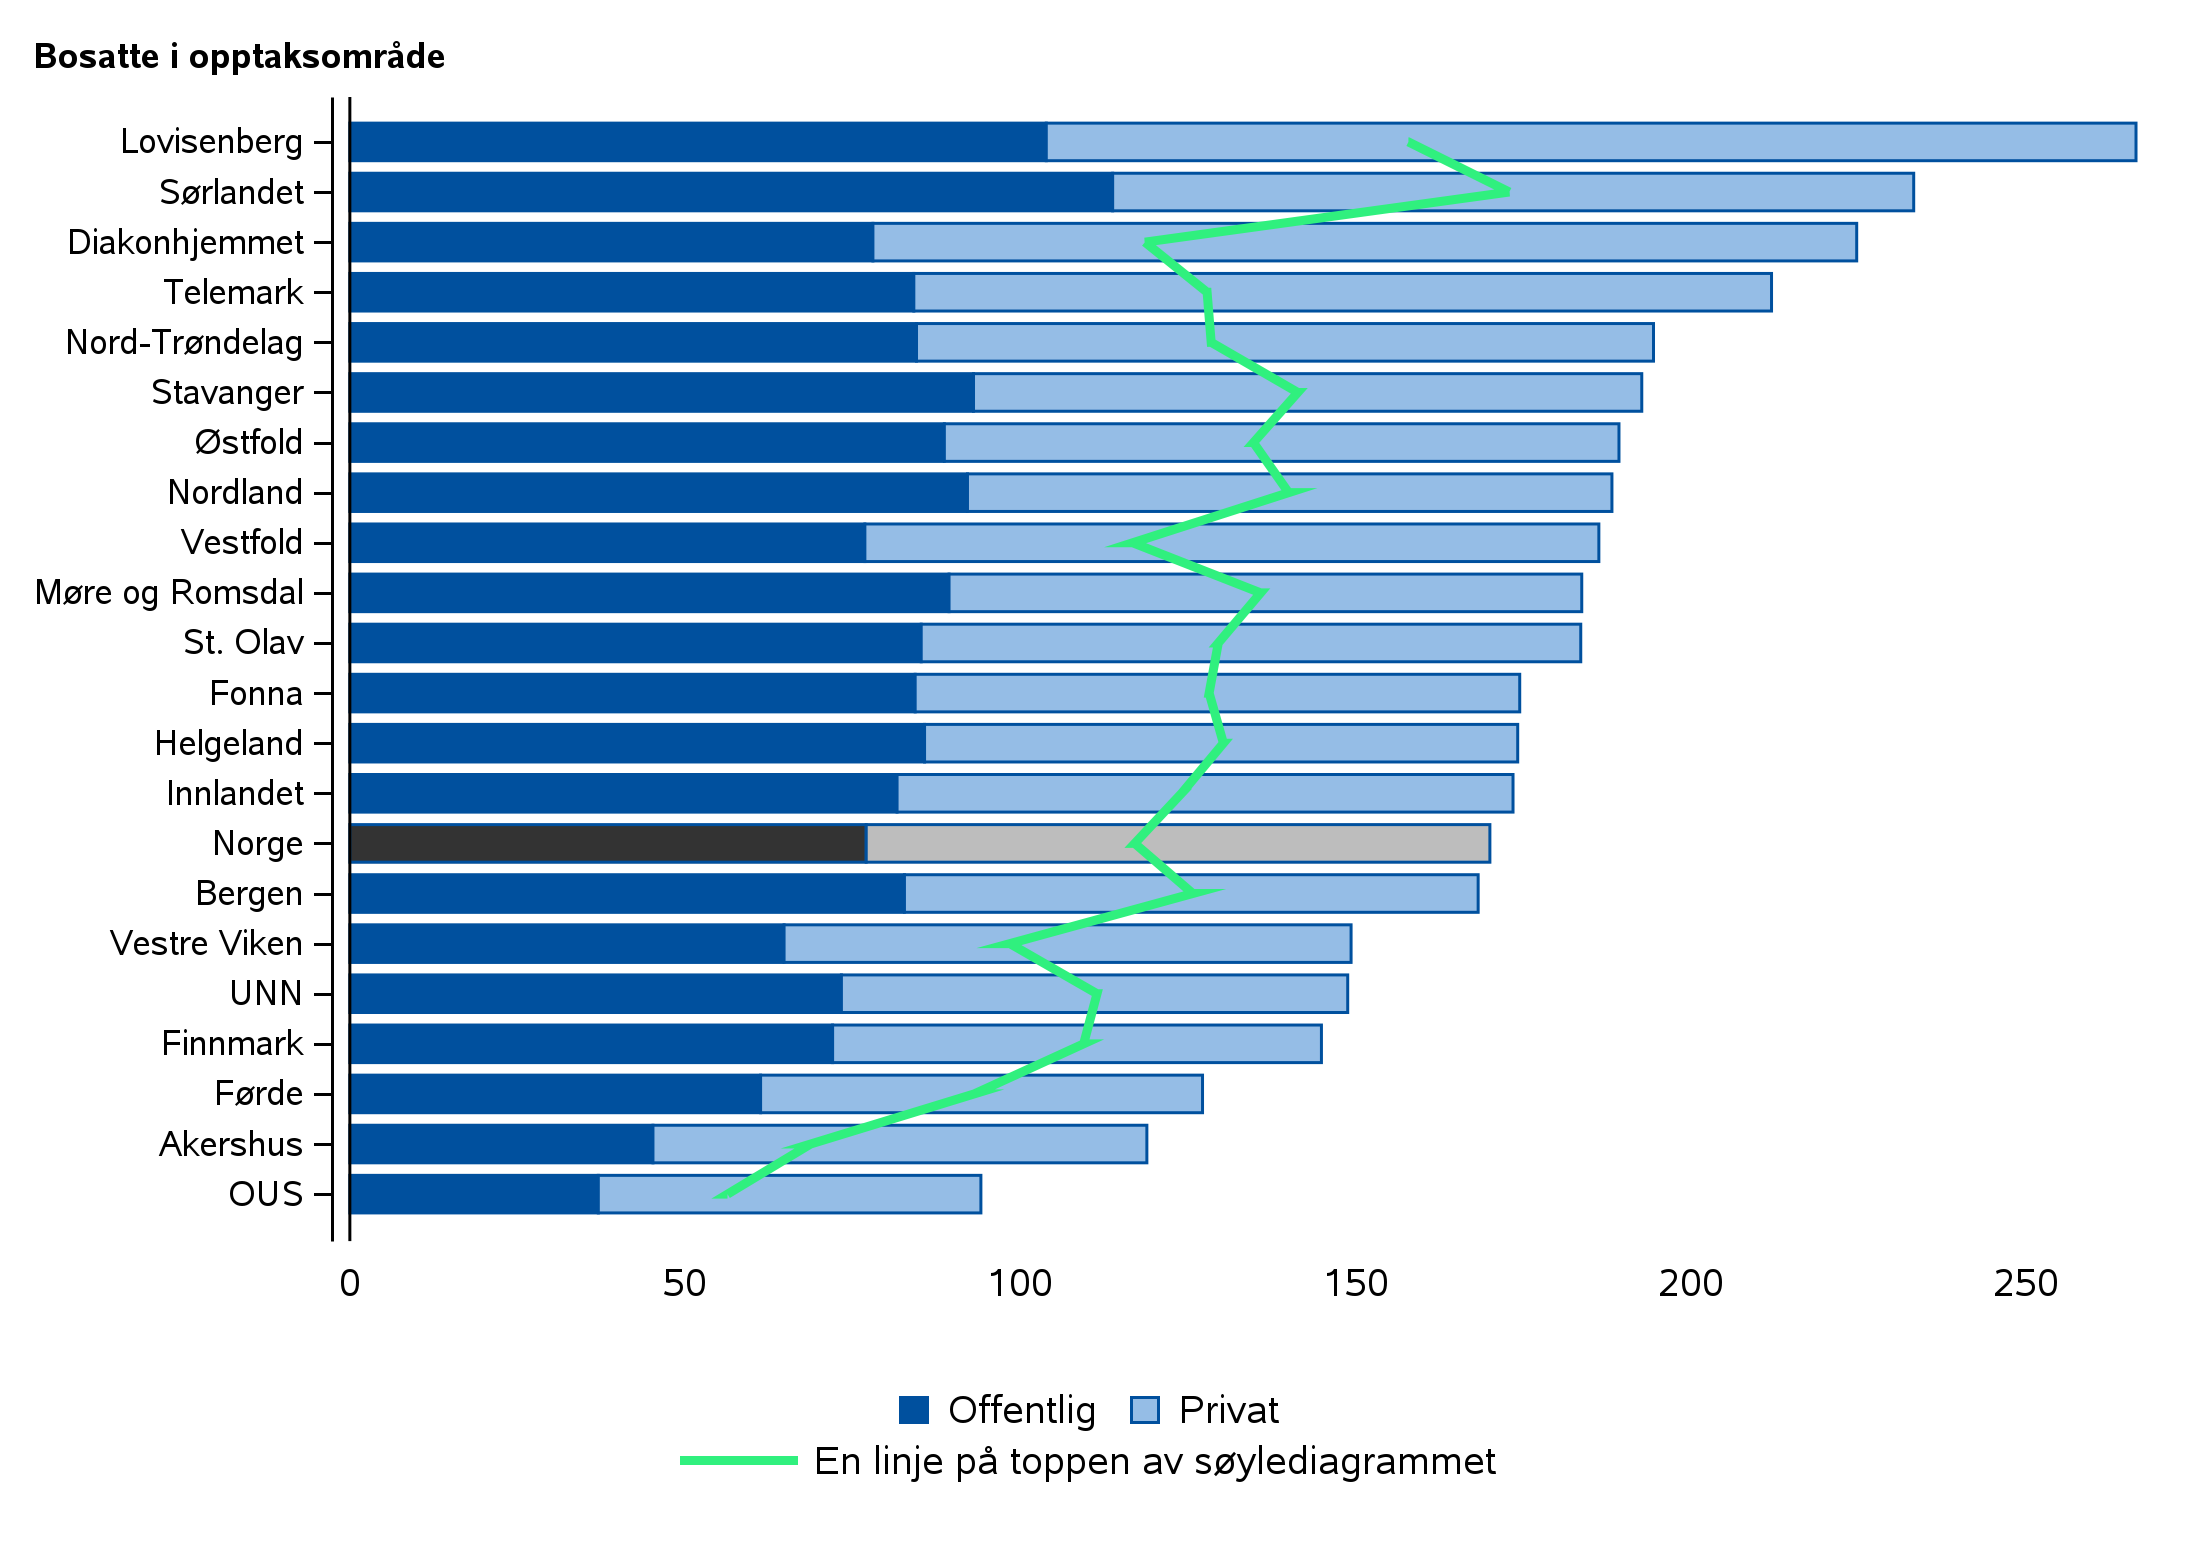
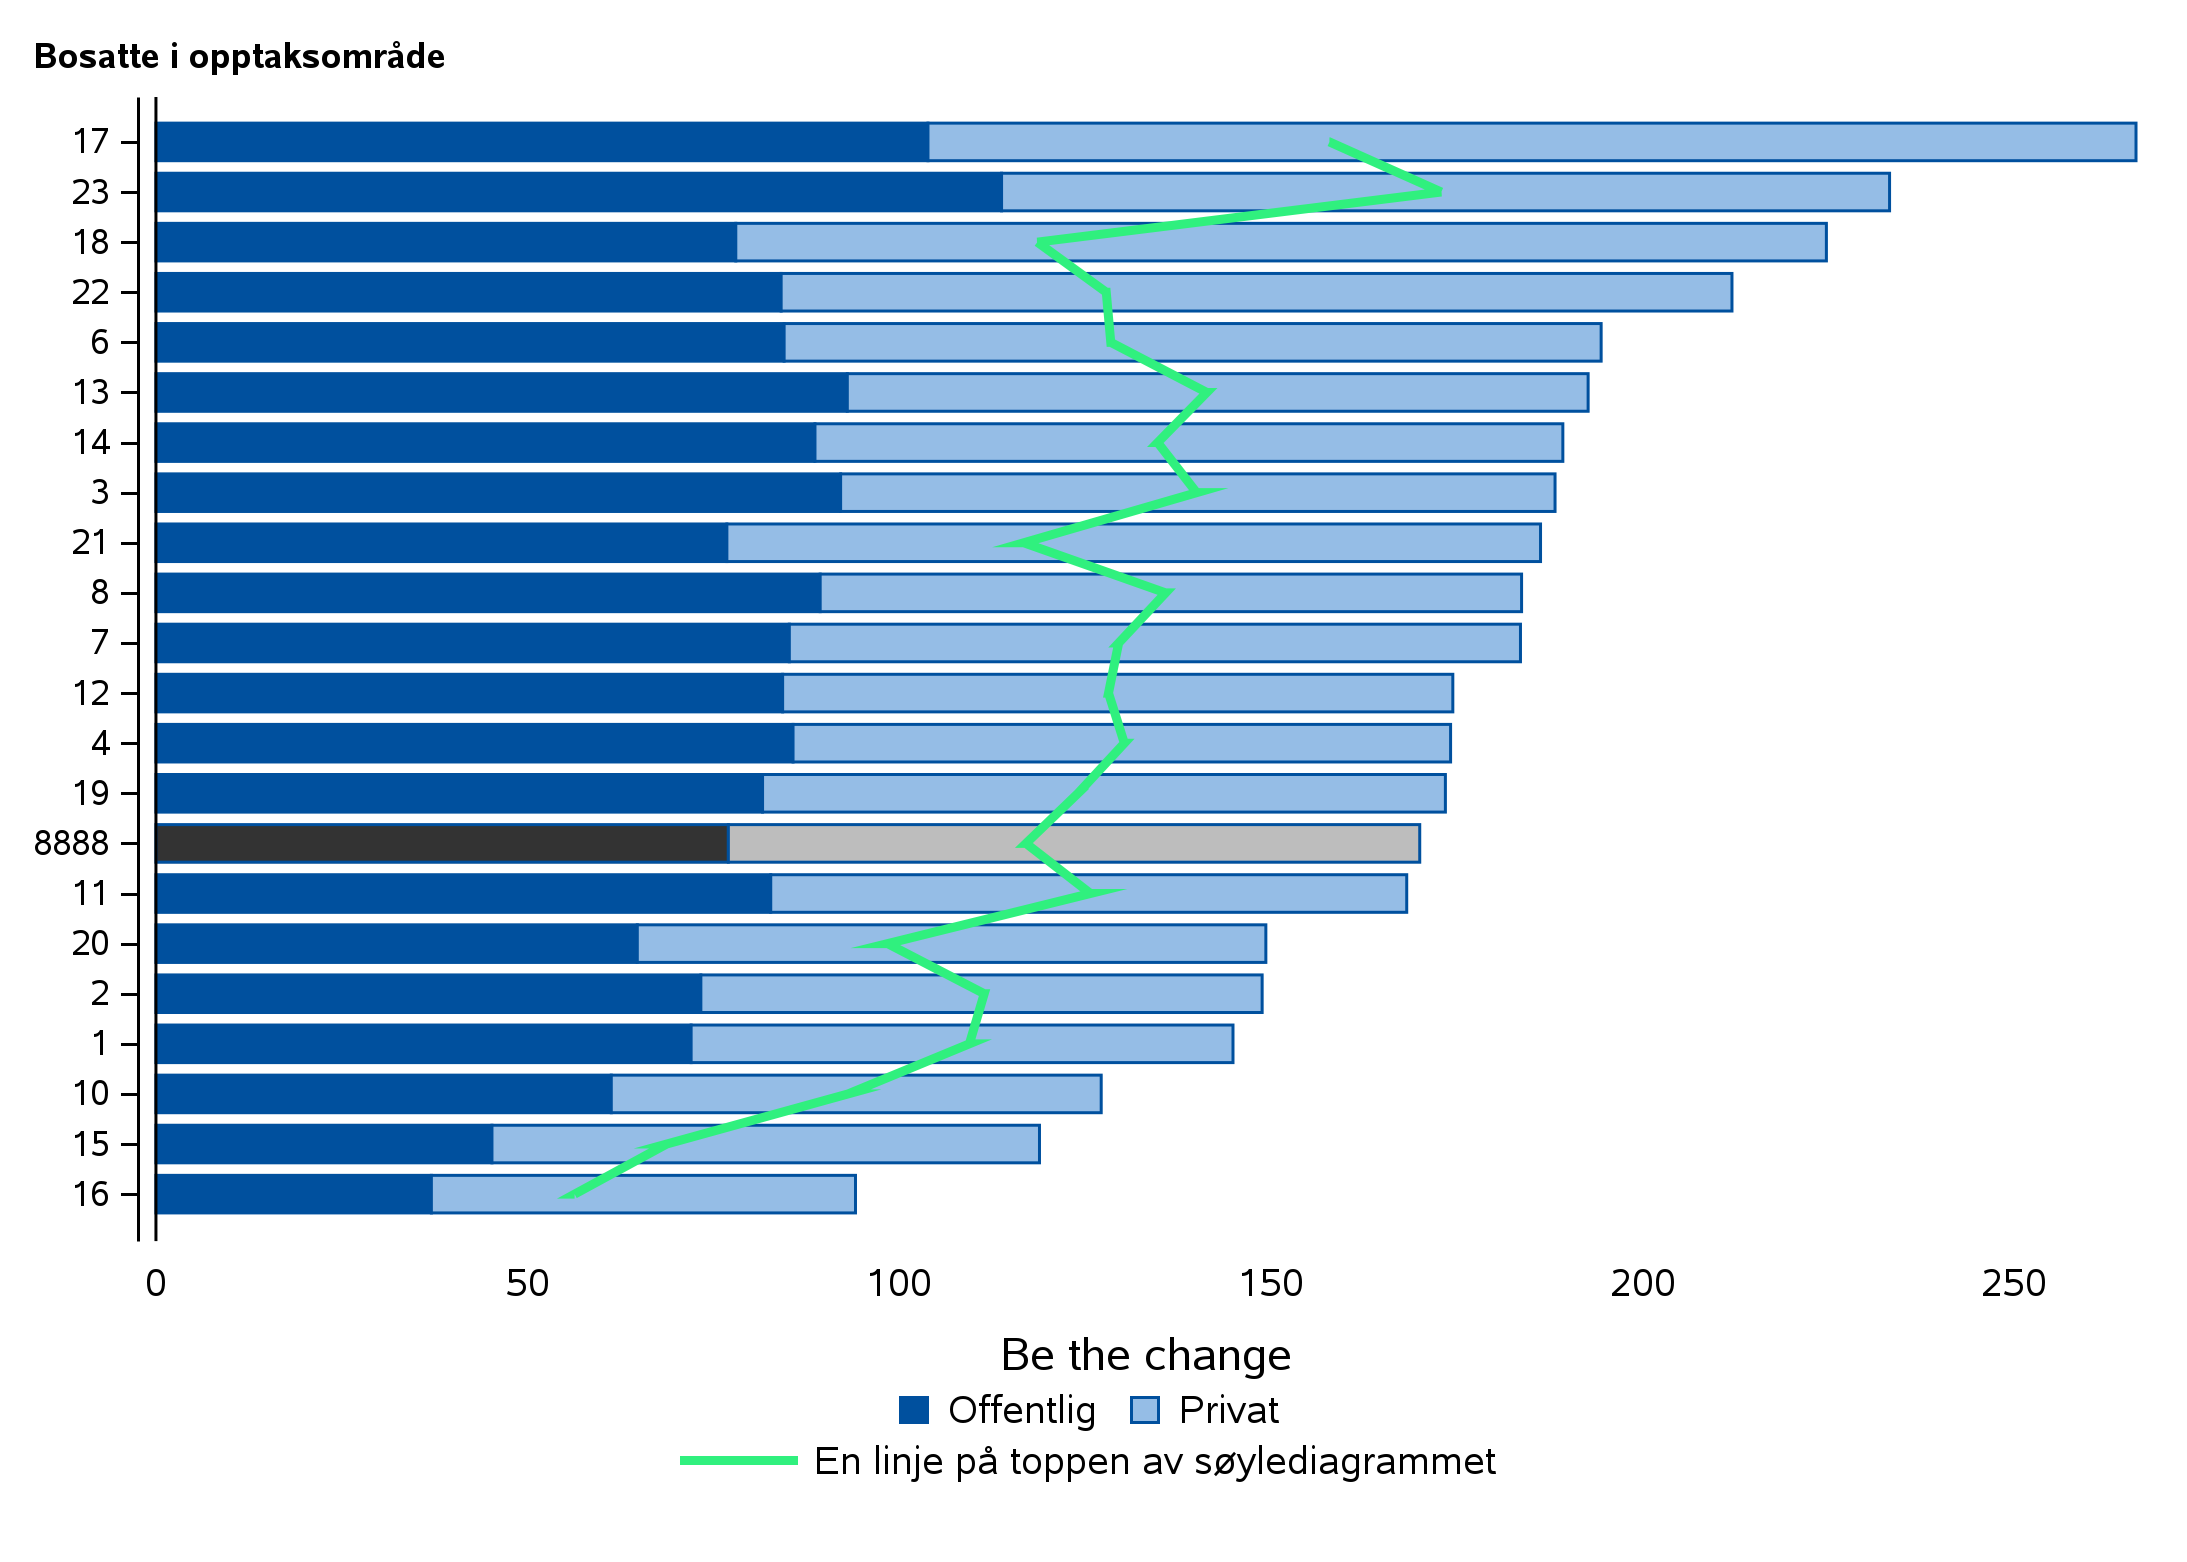
Deploying to gh-pages from @ SKDE-Analyse/sas_codes@aec67f7b28705561d49a87c8049f84525593f554 🚀

diff --git a/graf.md b/graf.md
@@ -30,7 +30,7 @@ Den beste måten å lære hvordan man bruker %graf() på er med eksempler; jeg h
 
 ### Enkelt søylediagram
 
-Hvis man vil laget et helt enkelt søylediagram uten noe visvas, spesifiserer man helt enkelt et datasett og en variabel slik som dette:
+Hvis man vil lage et helt enkelt søylediagram uten noe visvas, spesifiserer man helt enkelt et datasett og en variabel slik som dette:
 
 ```
 %graf(bars=datasett/Ratesnitt,
@@ -133,7 +133,8 @@ Av og til vil det ikke være mulig å bruke en enkelt `<dataspecifier>` slik som
 ```
 %graf(bars=datasett1/Ratesnitt1 + datasett2/Ratesnitt2 #Offentlig #Privat,
       lines=datasett1/Ratesnitt4 #En linje på toppen av søylediagrammet,
-      category=bohf/bohf_fmt.
+      category=bohf/bohf_fmt.,
+      description=Be the change
 )
 ```
 
